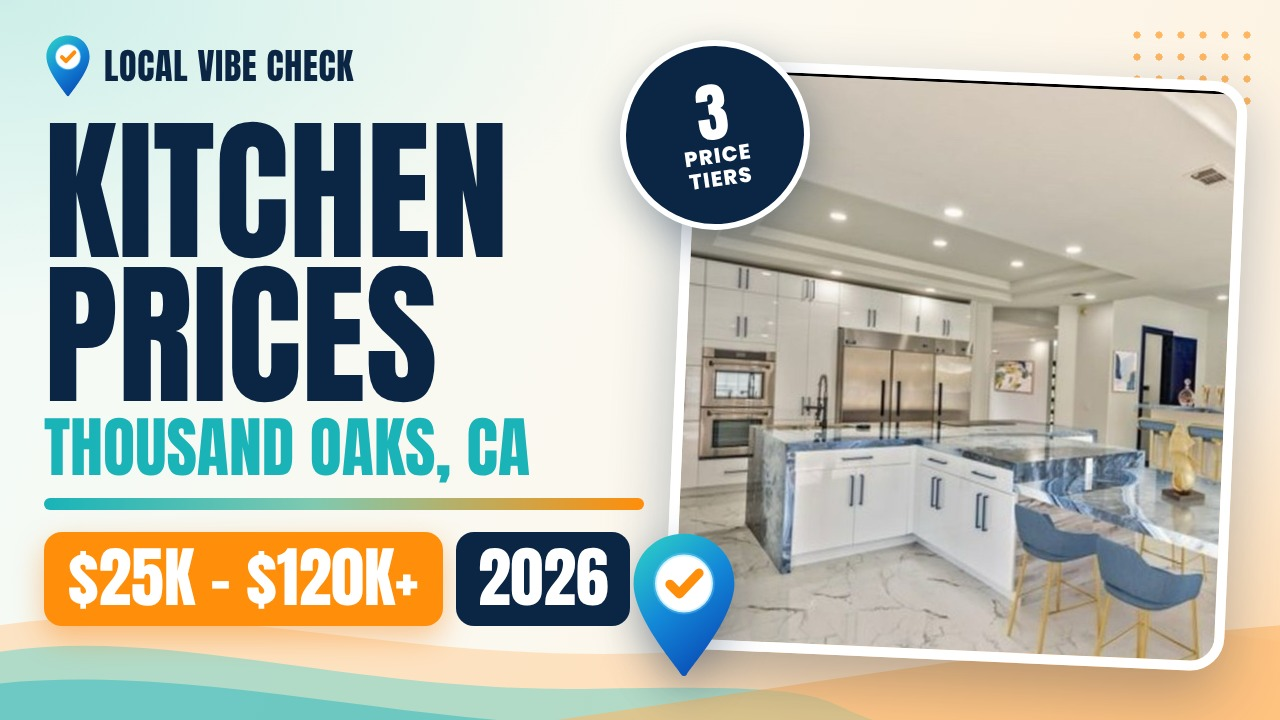
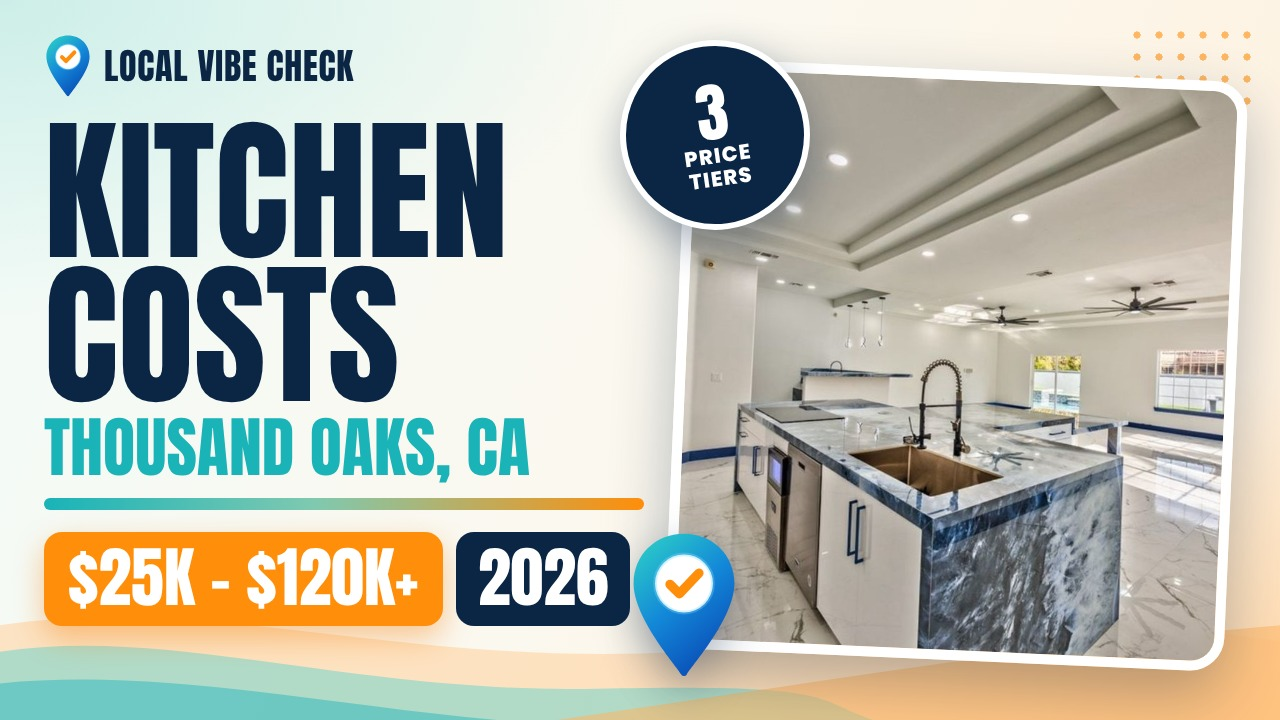
Vary New Kitchens thumbnails per city
Each city now gets its own gallery photo, headline word (Prices,
Remodel or Costs), price tag and badge, including that city's own
"less to start" figure on five of them.

Claude-Session: https://claude.ai/code/session_019XHQQHv5uH696c3W2dV2VT

Changed region(s): [[0.5312, 0.0917, 0.9688, 0.9167], [0.0312, 0.3667, 0.3438, 0.5806], [0.0312, 0.3667, 0.0625, 0.3972]]

diff --git a/videos/_shared/new-kitchens/build_scripts.py b/videos/_shared/new-kitchens/build_scripts.py
@@ -205,6 +205,32 @@ def scenes(c):
     return landscape, reel
 
 
+# A different photo, headline word, price tag and badge for each city's thumbnails.
+THUMB = {
+    "Beverly Hills": ("kitchen-03.jpg", "50% 50%", "Prices", "$25K – $120K+", "save"),
+    "Calabasas": ("kitchen-06.jpg", "45% 50%", "Remodel", "From $25K", "tiers"),
+    "Culver City": ("kitchen-11.jpg", "40% 50%", "Costs", "$25K – $120K+", "save"),
+    "Los Angeles": ("kitchen-09.jpg", "30% 50%", "Prices", "From $25K", "guide"),
+    "Malibu": ("kitchen-05.jpg", "50% 50%", "Remodel", "$25K – $120K+", "save"),
+    "Pacific Palisades": ("kitchen-07.jpg", "50% 50%", "Costs", "From $25K", "save"),
+    "Santa Clarita": ("kitchen-10.jpg", "45% 50%", "Prices", "From $25K", "tiers"),
+    "Santa Monica": ("kitchen-08.jpg", "40% 50%", "Remodel", "$25K – $120K+", "save"),
+    "Thousand Oaks": ("kitchen-04.jpg", "50% 50%", "Costs", "$25K – $120K+", "tiers"),
+    "Westlake": ("kitchen-12.jpg", "40% 50%", "Prices", "From $25K", "guide"),
+}
+
+
+def thumbs(c):
+    image, pos, word, tag, badge = THUMB[c["city"]]
+    k = f"${int(c['most'].replace(',', '')) // 1000}K"
+    stamp = {"save": [k, ["LESS TO", "START"]], "tiers": ["3", ["PRICE", "TIERS"]], "guide": ["2026", ["PRICE", "GUIDE"]]}[badge]
+    long_ = len(c["city"]) >= 14
+    return {"image": image, "landscapePos": pos, "reelPos": pos,
+            "lines": ["Kitchen", word], "sub": f"{c['city']}, CA", "tag": tag, "year": "2026",
+            "subPx": 54 if long_ else 66, "reelSubPx": 70 if long_ else 86,
+            "stamp": stamp, "reelStamp": stamp if badge != "tiers" else ["2026", ["PRICE", "GUIDE"]]}
+
+
 def main():
     for url in URLS:
         c = parse(url)
@@ -222,10 +248,7 @@ def main():
             "company": c["company"], "pageUrl": c["url"],
             "table": {"corner": "Published by", "highlight": 1,
                       "cols": ["Their published price", "New Kitchens", "Difference"], "rows": c["rows"]},
-            "thumbs": {"image": "kitchen-01.jpg", "landscapePos": "40% 50%", "reelPos": "40% 50%",
-                       "lines": ["Kitchen", "Prices"], "sub": f"{c['city']}, CA", "tag": "$25K – $120K+", "year": "2026",
-                       "subPx": 66 if len(c["city"]) < 14 else 54, "reelSubPx": 86 if len(c["city"]) < 14 else 70,
-                       "stamp": ["3", ["PRICE", "TIERS"]], "reelStamp": ["2026", ["PRICE", "GUIDE"]]},
+            "thumbs": thumbs(c),
             "landscape": landscape, "reel": reel,
         }
         (proj / "script.json").write_text(json.dumps(spec, indent=1, ensure_ascii=False) + "\n")
